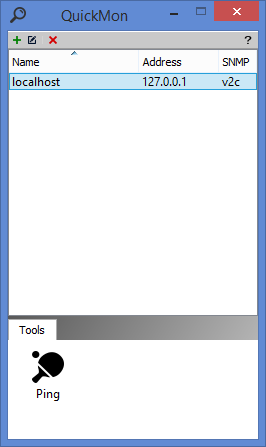
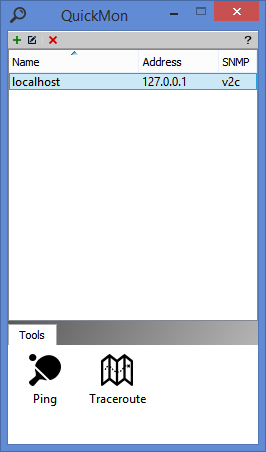
Update README.md.

diff --git a/README.md b/README.md
@@ -3,8 +3,8 @@
 
 #### Windows binaries
 
-* [QuickMon v0.1.0 32bit](https://github.com/renatoferreirarenatoferreira/quickmon/releases/download/v0.1.0/QuickMon-v0.1.0-32bit.zip)
-* [QuickMon v0.1.0 64bit](https://github.com/renatoferreirarenatoferreira/quickmon/releases/download/v0.1.0/QuickMon-v0.1.0-64bit.zip)
+* [QuickMon v0.2.0 32bit](https://github.com/renatoferreirarenatoferreira/quickmon/releases/download/v0.2.0/QuickMon-v0.2.0-32bit.zip)
+* [QuickMon v0.2.0 64bit](https://github.com/renatoferreirarenatoferreira/quickmon/releases/download/v0.2.0/QuickMon-v0.2.0-64bit.zip)
 
 #### Basic usage
 
@@ -15,6 +15,12 @@ The main window is divided in two parts:
 * **Hosts list**: The host list is located on top of the window and permits to create, edit and remove hosts. Each host used in the tools must be added in the host list.
 * **Tools list**: On bottom of screen is located the list of tools. Each click in a tool icon opens a new tool window.
 
-To initialize the tool just drag a host from the host list and drop over the tool window. Here is a screenshot of a working ping tool:
+To initialize the tool just drag a host from the host list and drop over the tool window.
+
+Here is a screenshot of a working ping tool:
 
 ![alt tag](https://raw.githubusercontent.com/renatoferreirarenatoferreira/quickmon/master/docs/pinggoogledns.png)
+
+And traceroute tool:
+
+![alt tag](https://raw.githubusercontent.com/renatoferreirarenatoferreira/quickmon/master/docs/traceroutegoogledns.png)
